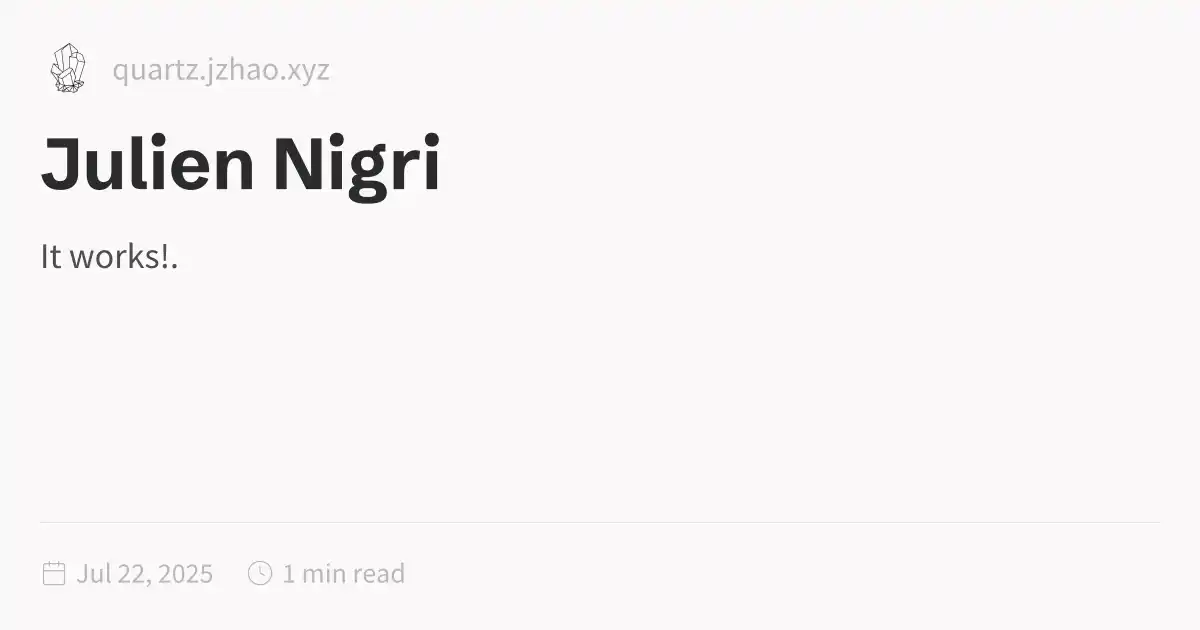
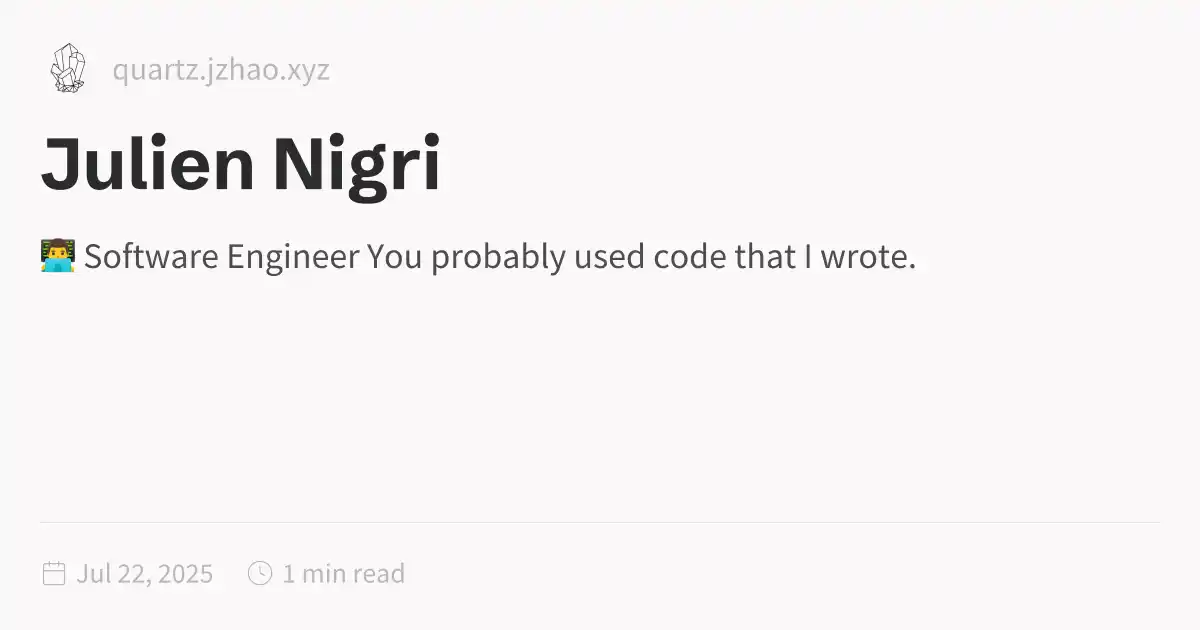
Quartz sync: Jul 22, 2025, 6:48 PM

Changed region(s): [[0.0308, 0.3619, 0.7708, 0.4524]]

diff --git a/public/index.html b/public/index.html
@@ -1,5 +1,5 @@
 <!DOCTYPE html>
-<html lang="en"><head><title>Julien Nigri</title><meta charset="utf-8"/><link rel="preconnect" href="https://fonts.googleapis.com"/><link rel="preconnect" href="https://fonts.gstatic.com"/><link rel="stylesheet" href="https://fonts.googleapis.com/css2?family=Schibsted Grotesk:wght@400;700&amp;family=Source Sans Pro:ital,wght@0,400;0,600;1,400;1,600&amp;family=IBM Plex Mono:wght@400;600&amp;display=swap"/><link rel="preconnect" href="https://cdnjs.cloudflare.com" crossorigin="anonymous"/><meta name="viewport" content="width=device-width, initial-scale=1.0"/><meta name="og:site_name" content="Essays"/><meta property="og:title" content="Julien Nigri"/><meta property="og:type" content="website"/><meta name="twitter:card" content="summary_large_image"/><meta name="twitter:title" content="Julien Nigri"/><meta name="twitter:description" content="It works!."/><meta property="og:description" content="It works!."/><meta property="og:image:alt" content="It works!."/><meta property="twitter:domain" content="quartz.jzhao.xyz"/><meta property="og:url" content="https://quartz.jzhao.xyz/index"/><meta property="twitter:url" content="https://quartz.jzhao.xyz/index"/><link rel="icon" href="./static/icon.png"/><meta name="description" content="It works!."/><meta name="generator" content="Quartz"/><link href="./index.css" rel="stylesheet" type="text/css" spa-preserve/><style>.expand-button {
+<html lang="en"><head><title>Julien Nigri</title><meta charset="utf-8"/><link rel="preconnect" href="https://fonts.googleapis.com"/><link rel="preconnect" href="https://fonts.gstatic.com"/><link rel="stylesheet" href="https://fonts.googleapis.com/css2?family=Schibsted Grotesk:wght@400;700&amp;family=Source Sans Pro:ital,wght@0,400;0,600;1,400;1,600&amp;family=IBM Plex Mono:wght@400;600&amp;display=swap"/><link rel="preconnect" href="https://cdnjs.cloudflare.com" crossorigin="anonymous"/><meta name="viewport" content="width=device-width, initial-scale=1.0"/><meta name="og:site_name" content="Essays"/><meta property="og:title" content="Julien Nigri"/><meta property="og:type" content="website"/><meta name="twitter:card" content="summary_large_image"/><meta name="twitter:title" content="Julien Nigri"/><meta name="twitter:description" content="👨💻 Software Engineer You probably used code that I wrote."/><meta property="og:description" content="👨💻 Software Engineer You probably used code that I wrote."/><meta property="og:image:alt" content="👨💻 Software Engineer You probably used code that I wrote."/><meta property="twitter:domain" content="quartz.jzhao.xyz"/><meta property="og:url" content="https://quartz.jzhao.xyz/index"/><meta property="twitter:url" content="https://quartz.jzhao.xyz/index"/><link rel="icon" href="./static/icon.png"/><meta name="description" content="👨💻 Software Engineer You probably used code that I wrote."/><meta name="generator" content="Quartz"/><link href="./index.css" rel="stylesheet" type="text/css" spa-preserve/><style>.expand-button {
   position: absolute;
   display: flex;
   float: right;
@@ -116,7 +116,8 @@ pre:hover > .expand-button {
   padding: 0 12px;
   font-size: 14px;
 }
[2 lines of base64/hex data omitted]
+<p><em>You probably used code that I wrote.</em></p></article><hr/><div class="page-footer"></div></div><div class="right sidebar"></div><div class="spacer"></div></div></div></body><script type="application/javascript">function n(){let t=this.parentElement;t.classList.toggle("is-collapsed");let e=t.getElementsByClassName("callout-content")[0];if(!e)return;let l=t.classList.contains("is-collapsed");e.style.gridTemplateRows=l?"0fr":"1fr"}function c(){let t=document.getElementsByClassName("callout is-collapsible");for(let e of t){let l=e.getElementsByClassName("callout-title")[0],s=e.getElementsByClassName("callout-content")[0];if(!l||!s)continue;l.addEventListener("click",n),window.addCleanup(()=>l.removeEventListener("click",n));let o=e.classList.contains("is-collapsed");s.style.gridTemplateRows=o?"0fr":"1fr"}}document.addEventListener("nav",c);
 </script><script type="module">function f(i,e){if(!i)return;function r(o){o.target===this&&(o.preventDefault(),o.stopPropagation(),e())}function t(o){o.key.startsWith("Esc")&&(o.preventDefault(),e())}i?.addEventListener("click",r),window.addCleanup(()=>i?.removeEventListener("click",r)),document.addEventListener("keydown",t),window.addCleanup(()=>document.removeEventListener("keydown",t))}function y(i){for(;i.firstChild;)i.removeChild(i.firstChild)}var h=class{constructor(e,r){this.container=e;this.content=r;this.setupEventListeners(),this.setupNavigationControls(),this.resetTransform()}isDragging=!1;startPan={x:0,y:0};currentPan={x:0,y:0};scale=1;MIN_SCALE=.5;MAX_SCALE=3;cleanups=[];setupEventListeners(){let e=this.onMouseDown.bind(this),r=this.onMouseMove.bind(this),t=this.onMouseUp.bind(this),o=this.resetTransform.bind(this);this.container.addEventListener("mousedown",e),document.addEventListener("mousemove",r),document.addEventListener("mouseup",t),window.addEventListener("resize",o),this.cleanups.push(()=>this.container.removeEventListener("mousedown",e),()=>document.removeEventListener("mousemove",r),()=>document.removeEventListener("mouseup",t),()=>window.removeEventListener("resize",o))}cleanup(){for(let e of this.cleanups)e()}setupNavigationControls(){let e=document.createElement("div");e.className="mermaid-controls";let r=this.createButton("+",()=>this.zoom(.1)),t=this.createButton("-",()=>this.zoom(-.1)),o=this.createButton("Reset",()=>this.resetTransform());e.appendChild(t),e.appendChild(o),e.appendChild(r),this.container.appendChild(e)}createButton(e,r){let t=document.createElement("button");return t.textContent=e,t.className="mermaid-control-button",t.addEventListener("click",r),window.addCleanup(()=>t.removeEventListener("click",r)),t}onMouseDown(e){e.button===0&&(this.isDragging=!0,this.startPan={x:e.clientX-this.currentPan.x,y:e.clientY-this.currentPan.y},this.container.style.cursor="grabbing")}onMouseMove(e){this.isDragging&&(e.preventDefault(),this.currentPan={x:e.clientX-this.startPan.x,y:e.clientY-this.startPan.y},this.updateTransform())}onMouseUp(){this.isDragging=!1,this.container.style.cursor="grab"}zoom(e){let r=Math.min(Math.max(this.scale+e,this.MIN_SCALE),this.MAX_SCALE),t=this.content.getBoundingClientRect(),o=t.width/2,n=t.height/2,c=r-this.scale;this.currentPan.x-=o*c,this.currentPan.y-=n*c,this.scale=r,this.updateTransform()}updateTransform(){this.content.style.transform=`translate(${this.currentPan.x}px, ${this.currentPan.y}px) scale(${this.scale})`}resetTransform(){this.scale=1;let e=this.content.querySelector("svg");this.currentPan={x:e.getBoundingClientRect().width/2,y:e.getBoundingClientRect().height/2},this.updateTransform()}},C=["--secondary","--tertiary","--gray","--light","--lightgray","--highlight","--dark","--darkgray","--codeFont"],E;document.addEventListener("nav",async()=>{let e=document.querySelector(".center").querySelectorAll("code.mermaid");if(e.length===0)return;E||=await import("https://cdnjs.cloudflare.com/ajax/libs/mermaid/11.4.0/mermaid.esm.min.mjs");let r=E.default,t=new WeakMap;for(let n of e)t.set(n,n.innerText);async function o(){for(let s of e){s.removeAttribute("data-processed");let a=t.get(s);a&&(s.innerHTML=a)}let n=C.reduce((s,a)=>(s[a]=window.getComputedStyle(document.documentElement).getPropertyValue(a),s),{}),c=document.documentElement.getAttribute("saved-theme")==="dark";r.initialize({startOnLoad:!1,securityLevel:"loose",theme:c?"dark":"base",themeVariables:{fontFamily:n["--codeFont"],primaryColor:n["--light"],primaryTextColor:n["--darkgray"],primaryBorderColor:n["--tertiary"],lineColor:n["--darkgray"],secondaryColor:n["--secondary"],tertiaryColor:n["--tertiary"],clusterBkg:n["--light"],edgeLabelBackground:n["--highlight"]}}),await r.run({nodes:e})}await o(),document.addEventListener("themechange",o),window.addCleanup(()=>document.removeEventListener("themechange",o));for(let n=0;n<e.length;n++){let v=function(){let g=l.querySelector("#mermaid-space"),m=l.querySelector(".mermaid-content");if(!m)return;y(m);let w=c.querySelector("svg").cloneNode(!0);m.appendChild(w),l.classList.add("active"),g.style.cursor="grab",u=new h(g,m)},M=function(){l.classList.remove("active"),u?.cleanup(),u=null},c=e[n],s=c.parentElement,a=s.querySelector(".clipboard-button"),d=s.querySelector(".expand-button"),p=window.getComputedStyle(a),L=a.offsetWidth+parseFloat(p.marginLeft||"0")+parseFloat(p.marginRight||"0");d.style.right=`calc(${L}px + 0.3rem)`,s.prepend(d);let l=s.querySelector("#mermaid-container");if(!l)return;let u=null;d.addEventListener("click",v),f(l,M),window.addCleanup(()=>{u?.cleanup(),d.removeEventListener("click",v)})}});
 </script><script src="https://cdn.jsdelivr.net/npm/katex@0.16.11/dist/contrib/copy-tex.min.js" type="application/javascript"></script><script type="application/javascript">
         const socket = new WebSocket('ws://localhost:3001')

diff --git a/public/How-to-debug-anything.html b/public/How-to-debug-anything.html
@@ -1,0 +1,147 @@
+<!DOCTYPE html>
+<html lang="en"><head><title>How to debug anything?</title><meta charset="utf-8"/><link rel="preconnect" href="https://fonts.googleapis.com"/><link rel="preconnect" href="https://fonts.gstatic.com"/><link rel="stylesheet" href="https://fonts.googleapis.com/css2?family=Schibsted Grotesk:wght@400;700&amp;family=Source Sans Pro:ital,wght@0,400;0,600;1,400;1,600&amp;family=IBM Plex Mono:wght@400;600&amp;display=swap"/><link rel="preconnect" href="https://cdnjs.cloudflare.com" crossorigin="anonymous"/><meta name="viewport" content="width=device-width, initial-scale=1.0"/><meta name="og:site_name" content="Essays"/><meta property="og:title" content="How to debug anything?"/><meta property="og:type" content="website"/><meta name="twitter:card" content="summary_large_image"/><meta name="twitter:title" content="How to debug anything?"/><meta name="twitter:description" content="Be great at debugging. Read the error messages. Start from the last message. Hidden in the noise, you may find the solution. Stay calm."/><meta property="og:description" content="Be great at debugging. Read the error messages. Start from the last message. Hidden in the noise, you may find the solution. Stay calm."/><meta property="og:image:alt" content="Be great at debugging. Read the error messages. Start from the last message. Hidden in the noise, you may find the solution. Stay calm."/><meta property="twitter:domain" content="quartz.jzhao.xyz"/><meta property="og:url" content="https://quartz.jzhao.xyz/How-to-debug-anything"/><meta property="twitter:url" content="https://quartz.jzhao.xyz/How-to-debug-anything"/><link rel="icon" href="./static/icon.png"/><meta name="description" content="Be great at debugging. Read the error messages. Start from the last message. Hidden in the noise, you may find the solution. Stay calm."/><meta name="generator" content="Quartz"/><link href="./index.css" rel="stylesheet" type="text/css" spa-preserve/><style>.expand-button {
+  position: absolute;
+  display: flex;
+  float: right;
+  padding: 0.4rem;
+  margin: 0.3rem;
+  right: 0;
+  color: var(--gray);
+  border-color: var(--dark);
+  background-color: var(--light);
+  border: 1px solid;
+  border-radius: 5px;
+  opacity: 0;
+  transition: 0.2s;
+}
+.expand-button > svg {
+  fill: var(--light);
+  filter: contrast(0.3);
+}
+.expand-button:hover {
+  cursor: pointer;
+  border-color: var(--secondary);
+}
+.expand-button:focus {
+  outline: 0;
+}
+
+pre:hover > .expand-button {
+  opacity: 1;
+  transition: 0.2s;
+}
+
+#mermaid-container {
+  position: fixed;
+  contain: layout;
+  z-index: 999;
+  left: 0;
+  top: 0;
+  width: 100vw;
+  height: 100vh;
+  overflow: hidden;
+  display: none;
+  backdrop-filter: blur(4px);
+  background: rgba(0, 0, 0, 0.5);
+}
+#mermaid-container.active {
+  display: inline-block;
+}
+#mermaid-container > #mermaid-space {
+  border: 1px solid var(--lightgray);
+  background-color: var(--light);
+  border-radius: 5px;
+  position: fixed;
+  top: 50%;
+  left: 50%;
+  transform: translate(-50%, -50%);
+  height: 80vh;
+  width: 80vw;
+  overflow: hidden;
+}
+#mermaid-container > #mermaid-space > .mermaid-content {
+  padding: 2rem;
+  position: relative;
+  transform-origin: 0 0;
+  transition: transform 0.1s ease;
+  overflow: visible;
+  min-height: 200px;
+  min-width: 200px;
+}
+#mermaid-container > #mermaid-space > .mermaid-content pre {
+  margin: 0;
+  border: none;
+}
+#mermaid-container > #mermaid-space > .mermaid-content svg {
+  max-width: none;
+  height: auto;
+}
+#mermaid-container > #mermaid-space > .mermaid-controls {
+  position: absolute;
+  bottom: 20px;
+  right: 20px;
+  display: flex;
+  gap: 8px;
+  padding: 8px;
+  background: var(--light);
+  border: 1px solid var(--lightgray);
+  border-radius: 6px;
+  box-shadow: 0 2px 4px rgba(0, 0, 0, 0.1);
+  z-index: 2;
+}
+#mermaid-container > #mermaid-space > .mermaid-controls .mermaid-control-button {
+  display: flex;
+  align-items: center;
+  justify-content: center;
+  width: 32px;
+  height: 32px;
+  padding: 0;
+  border: 1px solid var(--lightgray);
+  background: var(--light);
+  color: var(--dark);
+  border-radius: 4px;
+  cursor: pointer;
+  font-size: 16px;
+  font-family: var(--bodyFont);
+  transition: all 0.2s ease;
+}
+#mermaid-container > #mermaid-space > .mermaid-controls .mermaid-control-button:hover {
+  background: var(--lightgray);
+}
+#mermaid-container > #mermaid-space > .mermaid-controls .mermaid-control-button:active {
+  transform: translateY(1px);
+}
+#mermaid-container > #mermaid-space > .mermaid-controls .mermaid-control-button:nth-child(2) {
+  width: auto;
+  padding: 0 12px;
+  font-size: 14px;
+}
[1 lines of base64/hex data omitted]
+<p>Read the error messages.<br/>
+Start from the last message.<br/>
+Hidden in the noise, you may find the solution.</p>
+<p>Stay calm.</p>
+<p>Binary search the code.<br/>
+Remove half the code.<br/>
+Does the problem still exist?</p>
+<p>Binary search the environment.<br/>
+Remove half the environment.<br/>
+Does the problem still exist?</p>
+<p>Binary search the version history.<br/>
+Go back 6 months ago.<br/>
+Does the problem still exist?</p>
+<p>Binary search everything.</p>
+<p>Ask for help.<br/>
+Explore the options you have first.<br/>
+Your colleagues’ time is valuable.<br/>
+So is yours.</p>
+<p>Sleep on it.</p>
+<p>Sometimes you can’t reproduce it.<br/>
+If you can’t reproduce it, you can’t fix it.<br/>
+Add logs and wait for it to appear again.</p></article><hr/><div class="page-footer"></div></div><div class="right sidebar"></div><div class="spacer"></div></div></div></body><script type="application/javascript">function n(){let t=this.parentElement;t.classList.toggle("is-collapsed");let e=t.getElementsByClassName("callout-content")[0];if(!e)return;let l=t.classList.contains("is-collapsed");e.style.gridTemplateRows=l?"0fr":"1fr"}function c(){let t=document.getElementsByClassName("callout is-collapsible");for(let e of t){let l=e.getElementsByClassName("callout-title")[0],s=e.getElementsByClassName("callout-content")[0];if(!l||!s)continue;l.addEventListener("click",n),window.addCleanup(()=>l.removeEventListener("click",n));let o=e.classList.contains("is-collapsed");s.style.gridTemplateRows=o?"0fr":"1fr"}}document.addEventListener("nav",c);
+</script><script type="module">function f(i,e){if(!i)return;function r(o){o.target===this&&(o.preventDefault(),o.stopPropagation(),e())}function t(o){o.key.startsWith("Esc")&&(o.preventDefault(),e())}i?.addEventListener("click",r),window.addCleanup(()=>i?.removeEventListener("click",r)),document.addEventListener("keydown",t),window.addCleanup(()=>document.removeEventListener("keydown",t))}function y(i){for(;i.firstChild;)i.removeChild(i.firstChild)}var h=class{constructor(e,r){this.container=e;this.content=r;this.setupEventListeners(),this.setupNavigationControls(),this.resetTransform()}isDragging=!1;startPan={x:0,y:0};currentPan={x:0,y:0};scale=1;MIN_SCALE=.5;MAX_SCALE=3;cleanups=[];setupEventListeners(){let e=this.onMouseDown.bind(this),r=this.onMouseMove.bind(this),t=this.onMouseUp.bind(this),o=this.resetTransform.bind(this);this.container.addEventListener("mousedown",e),document.addEventListener("mousemove",r),document.addEventListener("mouseup",t),window.addEventListener("resize",o),this.cleanups.push(()=>this.container.removeEventListener("mousedown",e),()=>document.removeEventListener("mousemove",r),()=>document.removeEventListener("mouseup",t),()=>window.removeEventListener("resize",o))}cleanup(){for(let e of this.cleanups)e()}setupNavigationControls(){let e=document.createElement("div");e.className="mermaid-controls";let r=this.createButton("+",()=>this.zoom(.1)),t=this.createButton("-",()=>this.zoom(-.1)),o=this.createButton("Reset",()=>this.resetTransform());e.appendChild(t),e.appendChild(o),e.appendChild(r),this.container.appendChild(e)}createButton(e,r){let t=document.createElement("button");return t.textContent=e,t.className="mermaid-control-button",t.addEventListener("click",r),window.addCleanup(()=>t.removeEventListener("click",r)),t}onMouseDown(e){e.button===0&&(this.isDragging=!0,this.startPan={x:e.clientX-this.currentPan.x,y:e.clientY-this.currentPan.y},this.container.style.cursor="grabbing")}onMouseMove(e){this.isDragging&&(e.preventDefault(),this.currentPan={x:e.clientX-this.startPan.x,y:e.clientY-this.startPan.y},this.updateTransform())}onMouseUp(){this.isDragging=!1,this.container.style.cursor="grab"}zoom(e){let r=Math.min(Math.max(this.scale+e,this.MIN_SCALE),this.MAX_SCALE),t=this.content.getBoundingClientRect(),o=t.width/2,n=t.height/2,c=r-this.scale;this.currentPan.x-=o*c,this.currentPan.y-=n*c,this.scale=r,this.updateTransform()}updateTransform(){this.content.style.transform=`translate(${this.currentPan.x}px, ${this.currentPan.y}px) scale(${this.scale})`}resetTransform(){this.scale=1;let e=this.content.querySelector("svg");this.currentPan={x:e.getBoundingClientRect().width/2,y:e.getBoundingClientRect().height/2},this.updateTransform()}},C=["--secondary","--tertiary","--gray","--light","--lightgray","--highlight","--dark","--darkgray","--codeFont"],E;document.addEventListener("nav",async()=>{let e=document.querySelector(".center").querySelectorAll("code.mermaid");if(e.length===0)return;E||=await import("https://cdnjs.cloudflare.com/ajax/libs/mermaid/11.4.0/mermaid.esm.min.mjs");let r=E.default,t=new WeakMap;for(let n of e)t.set(n,n.innerText);async function o(){for(let s of e){s.removeAttribute("data-processed");let a=t.get(s);a&&(s.innerHTML=a)}let n=C.reduce((s,a)=>(s[a]=window.getComputedStyle(document.documentElement).getPropertyValue(a),s),{}),c=document.documentElement.getAttribute("saved-theme")==="dark";r.initialize({startOnLoad:!1,securityLevel:"loose",theme:c?"dark":"base",themeVariables:{fontFamily:n["--codeFont"],primaryColor:n["--light"],primaryTextColor:n["--darkgray"],primaryBorderColor:n["--tertiary"],lineColor:n["--darkgray"],secondaryColor:n["--secondary"],tertiaryColor:n["--tertiary"],clusterBkg:n["--light"],edgeLabelBackground:n["--highlight"]}}),await r.run({nodes:e})}await o(),document.addEventListener("themechange",o),window.addCleanup(()=>document.removeEventListener("themechange",o));for(let n=0;n<e.length;n++){let v=function(){let g=l.querySelector("#mermaid-space"),m=l.querySelector(".mermaid-content");if(!m)return;y(m);let w=c.querySelector("svg").cloneNode(!0);m.appendChild(w),l.classList.add("active"),g.style.cursor="grab",u=new h(g,m)},M=function(){l.classList.remove("active"),u?.cleanup(),u=null},c=e[n],s=c.parentElement,a=s.querySelector(".clipboard-button"),d=s.querySelector(".expand-button"),p=window.getComputedStyle(a),L=a.offsetWidth+parseFloat(p.marginLeft||"0")+parseFloat(p.marginRight||"0");d.style.right=`calc(${L}px + 0.3rem)`,s.prepend(d);let l=s.querySelector("#mermaid-container");if(!l)return;let u=null;d.addEventListener("click",v),f(l,M),window.addCleanup(()=>{u?.cleanup(),d.removeEventListener("click",v)})}});
+</script><script src="https://cdn.jsdelivr.net/npm/katex@0.16.11/dist/contrib/copy-tex.min.js" type="application/javascript"></script><script type="application/javascript">
+        const socket = new WebSocket('ws://localhost:3001')
+        // reload(true) ensures resources like images and scripts are fetched again in firefox
+        socket.addEventListener('message', () => document.location.reload(true))
+      </script><script src="./postscript.js" type="module"></script></html>

diff --git a/content/How to debug anything?.md b/content/How to debug anything?.md
@@ -1,0 +1,36 @@
+---
+title: How to debug anything?
+draft: false
+---
+Be great at debugging.
+
+Read the error messages.  
+Start from the last message.  
+Hidden in the noise, you may find the solution.  
+
+Stay calm.  
+
+Binary search the code.   
+Remove half the code.  
+Does the problem still exist?
+
+Binary search the environment.  
+Remove half the environment.  
+Does the problem still exist?
+
+Binary search the version history.  
+Go back 6 months ago.  
+Does the problem still exist?
+
+Binary search everything.    
+
+Ask for help.  
+Explore the options you have first.  
+Your colleagues' time is valuable.  
+So is yours.   
+
+Sleep on it.
+
+Sometimes you can't reproduce it.  
+If you can't reproduce it, you can't fix it.  
+Add logs and wait for it to appear again.  

diff --git a/content/index.md b/content/index.md
@@ -1,5 +1,7 @@
 ---
 title: Julien Nigri
 ---
-It works!
+👨💻 Software Engineer
+
+*You probably used code that I wrote.*
 
